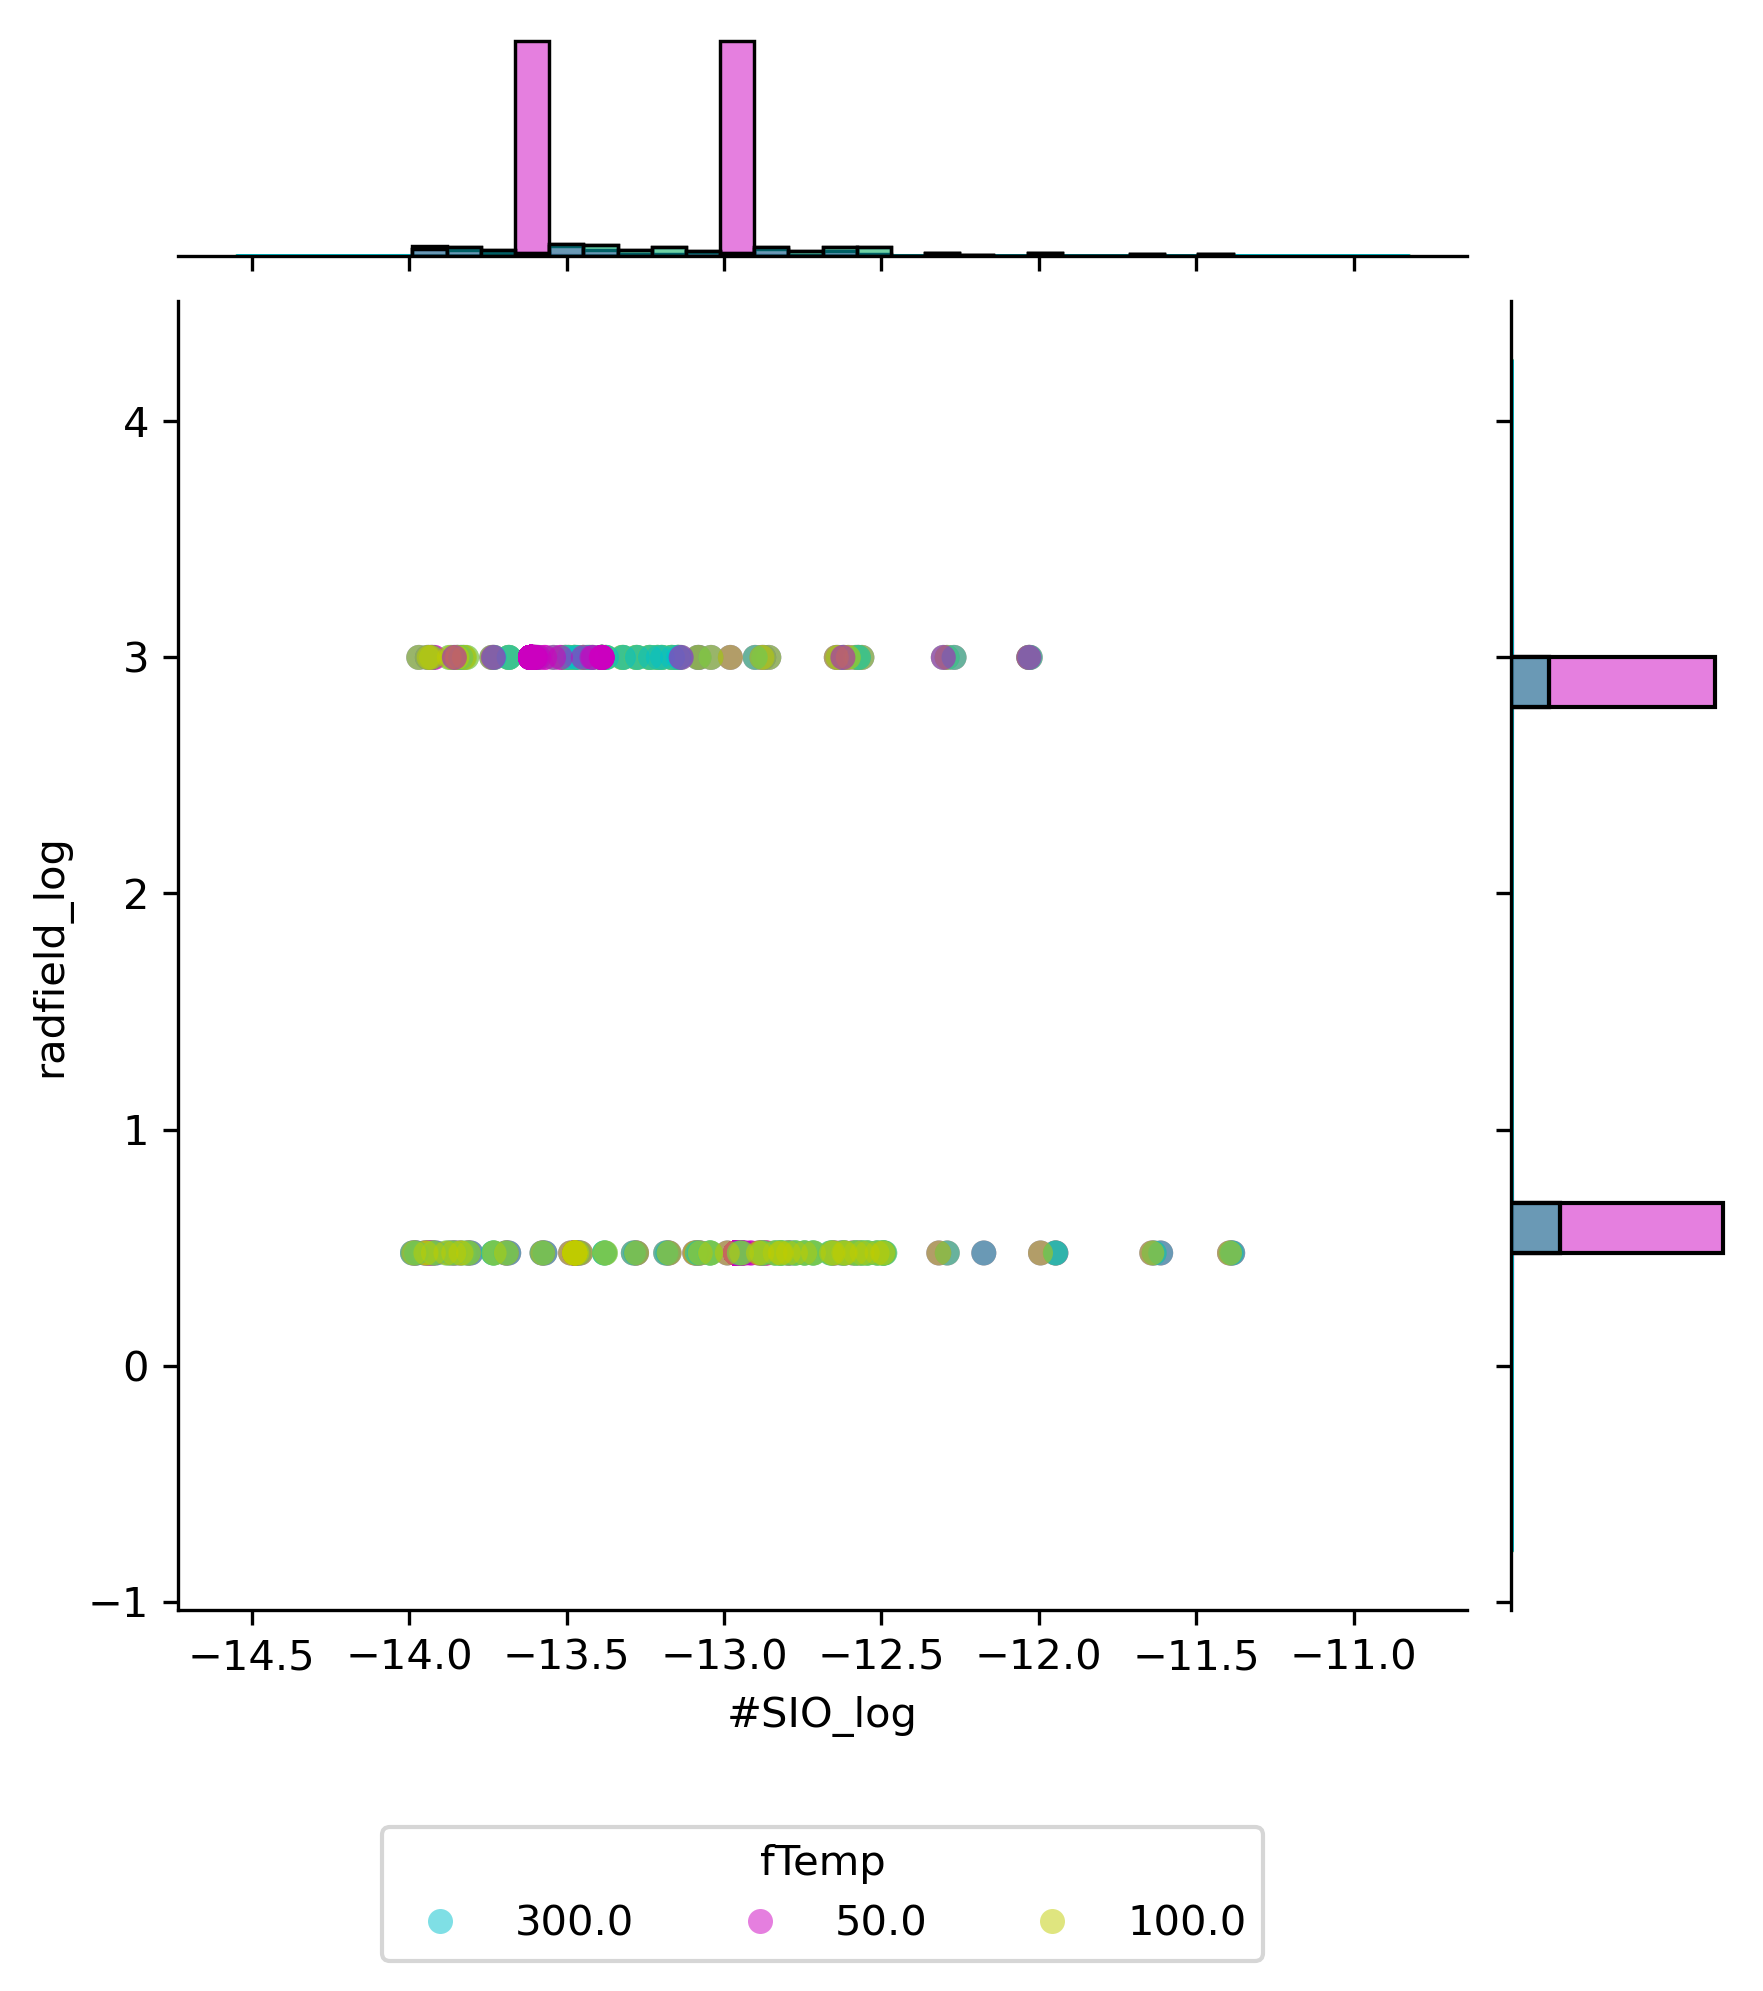
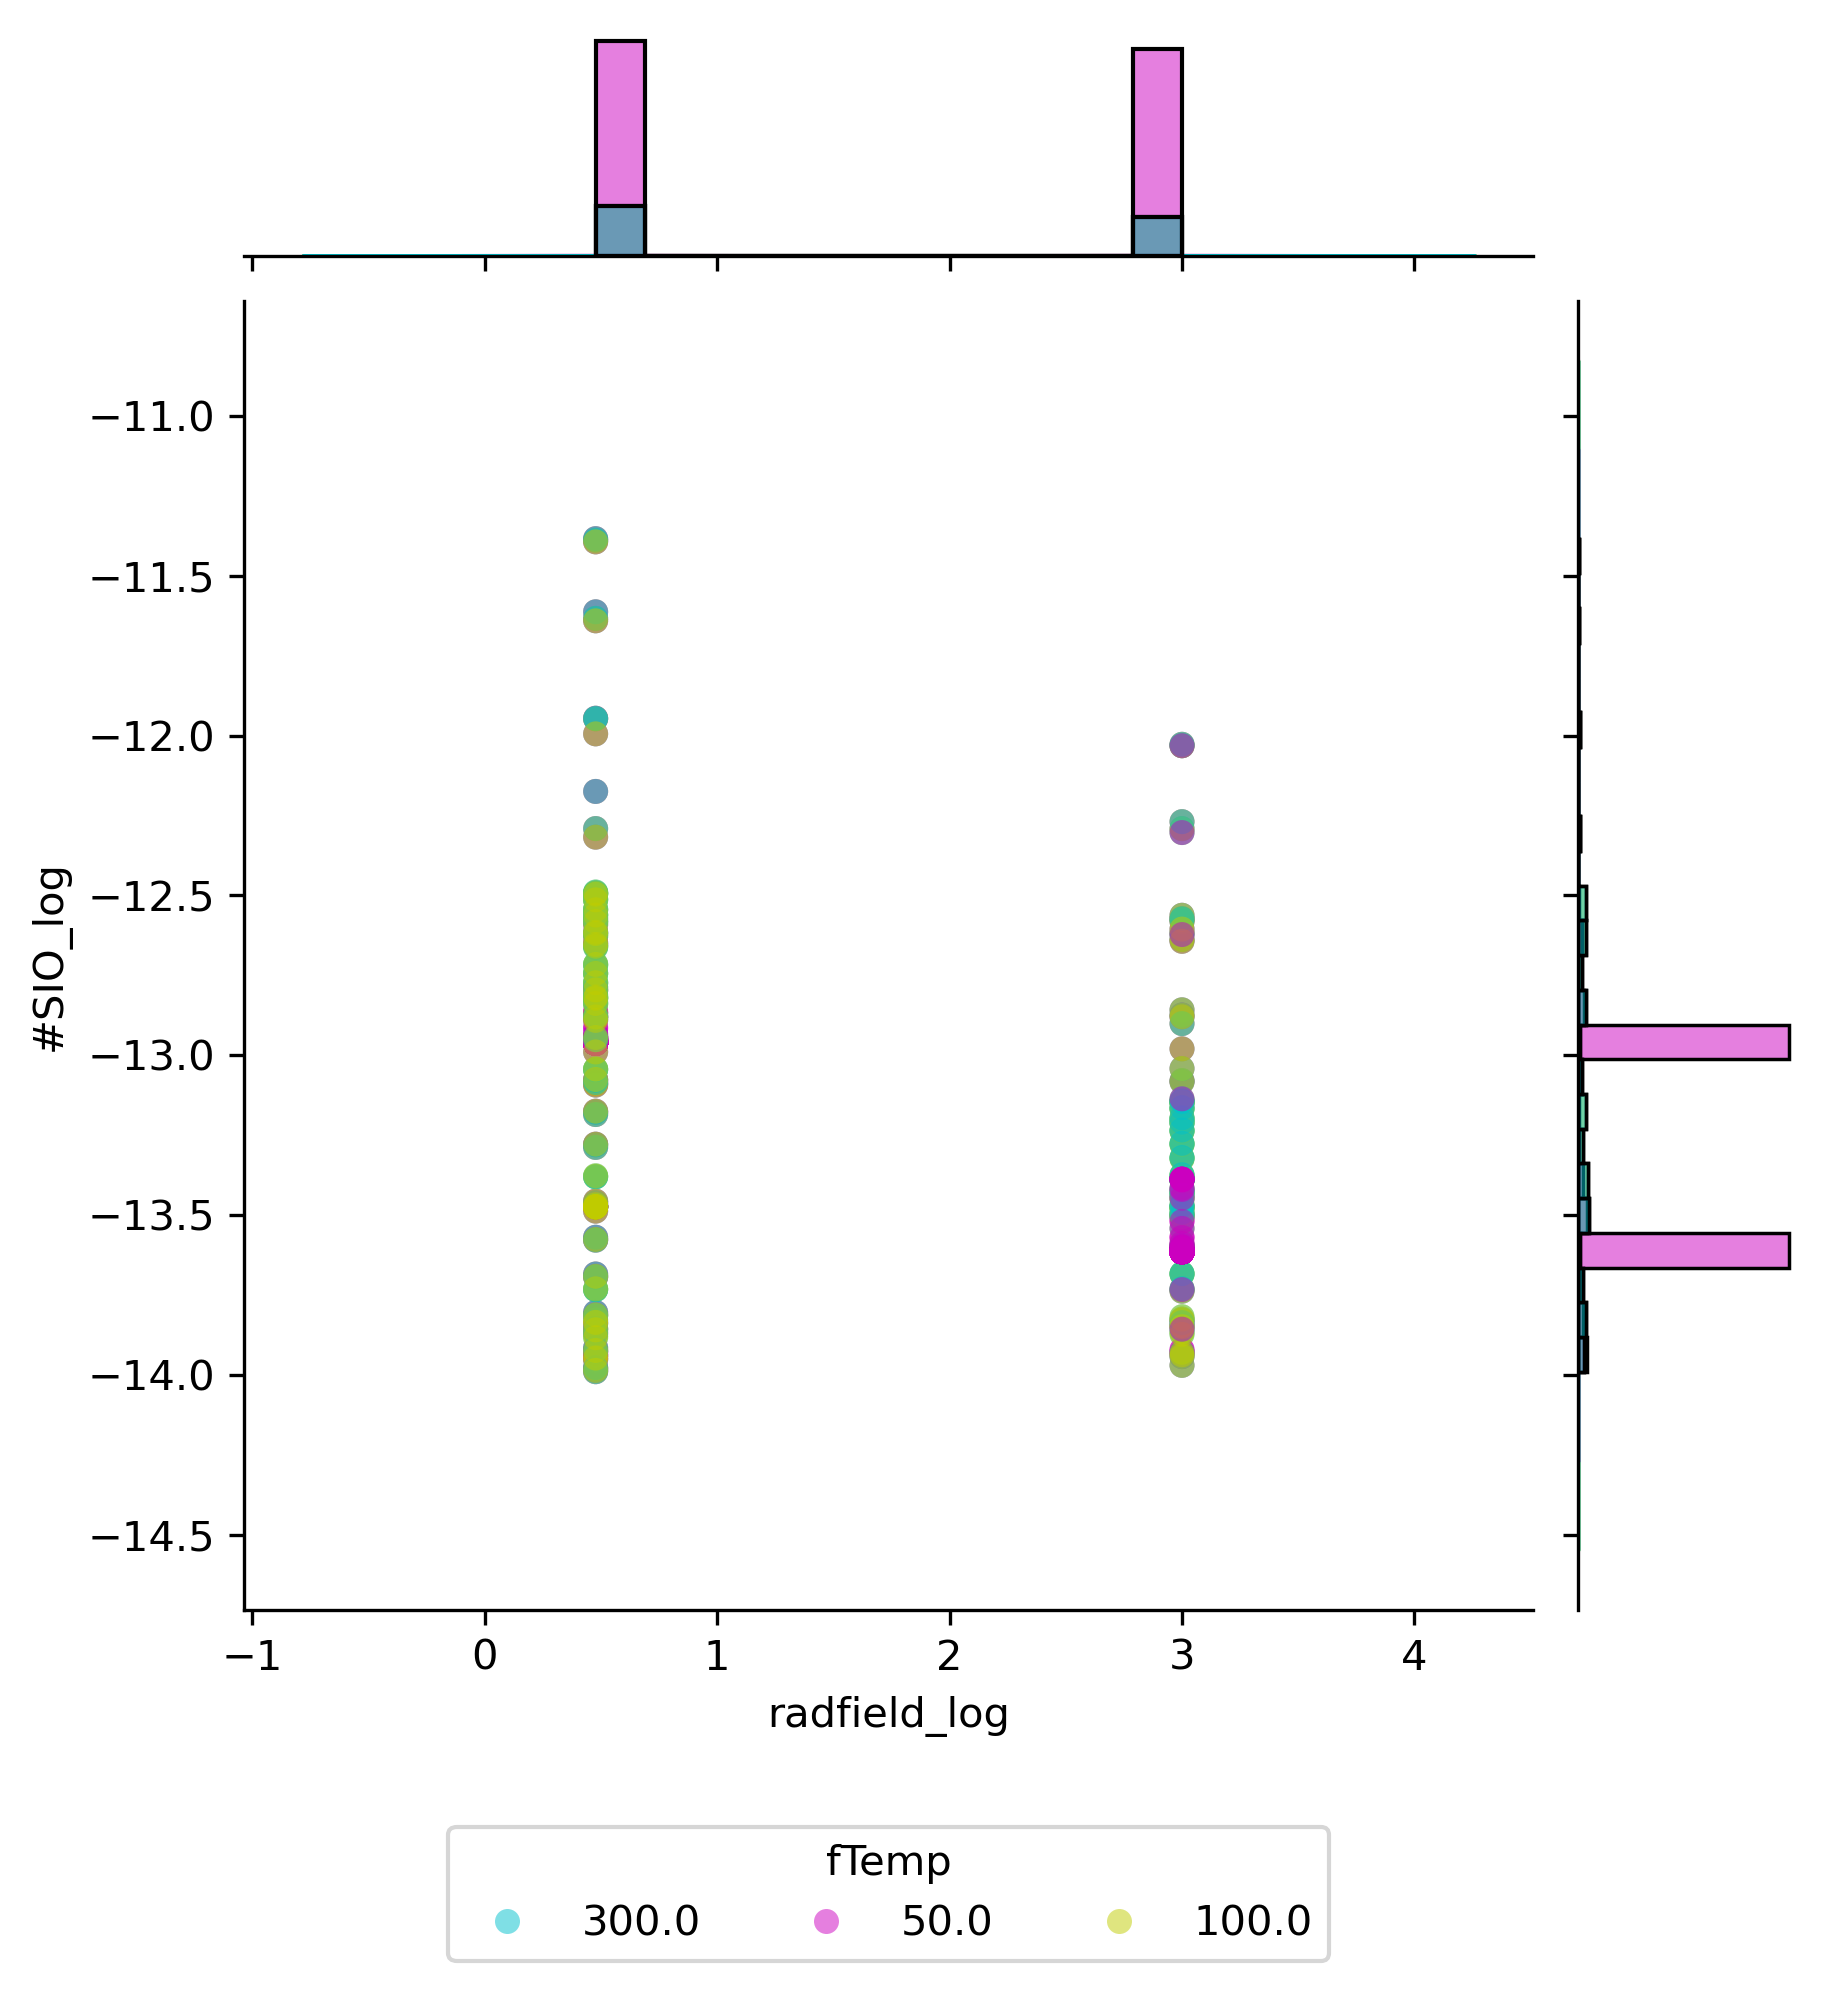
fix orden ejes

diff --git a/Analysis/Plotting.py b/Analysis/Plotting.py
@@ -74,7 +74,7 @@ def jointPlot(df, xaxis, yaxis, tipo, nameBase):
         spec=yaxis[i]
 
         for j, focus in enumerate(constants.initparams[tipo]):
-            f = sns.jointplot(df, x=phys,y=spec,
+            f = sns.jointplot(df, x=spec,y=phys,
                             hue=focus, palette= sns.hls_palette(s=1, l=.4, h=j*.17, n_colors=3),
                             alpha=0.5, linewidth=0,
                             )
